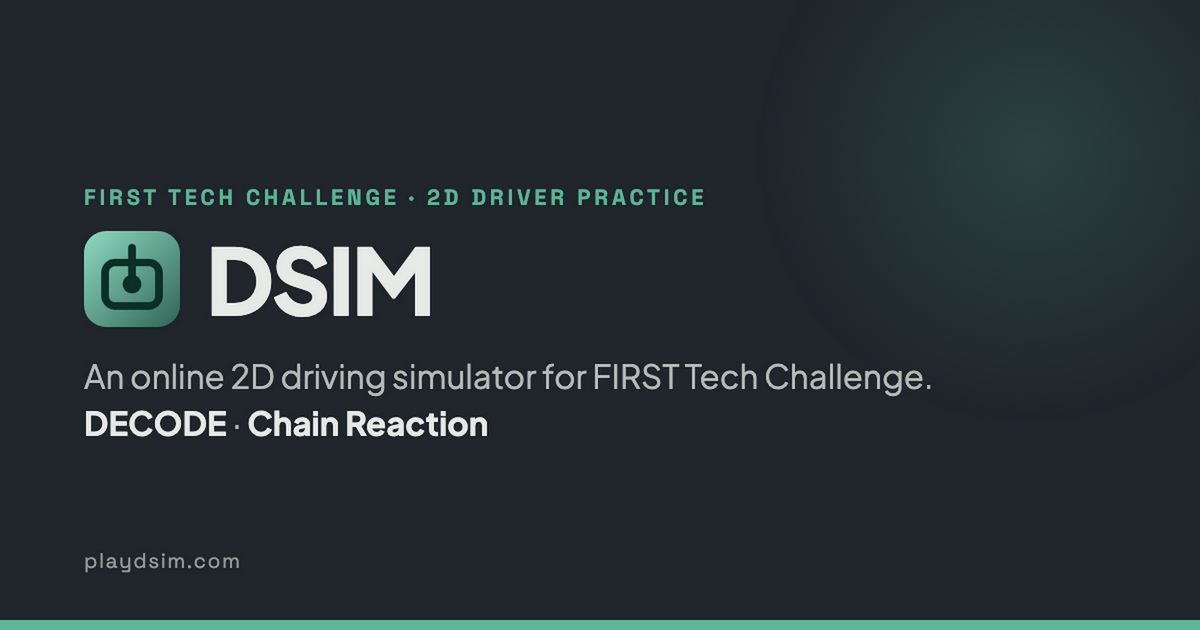
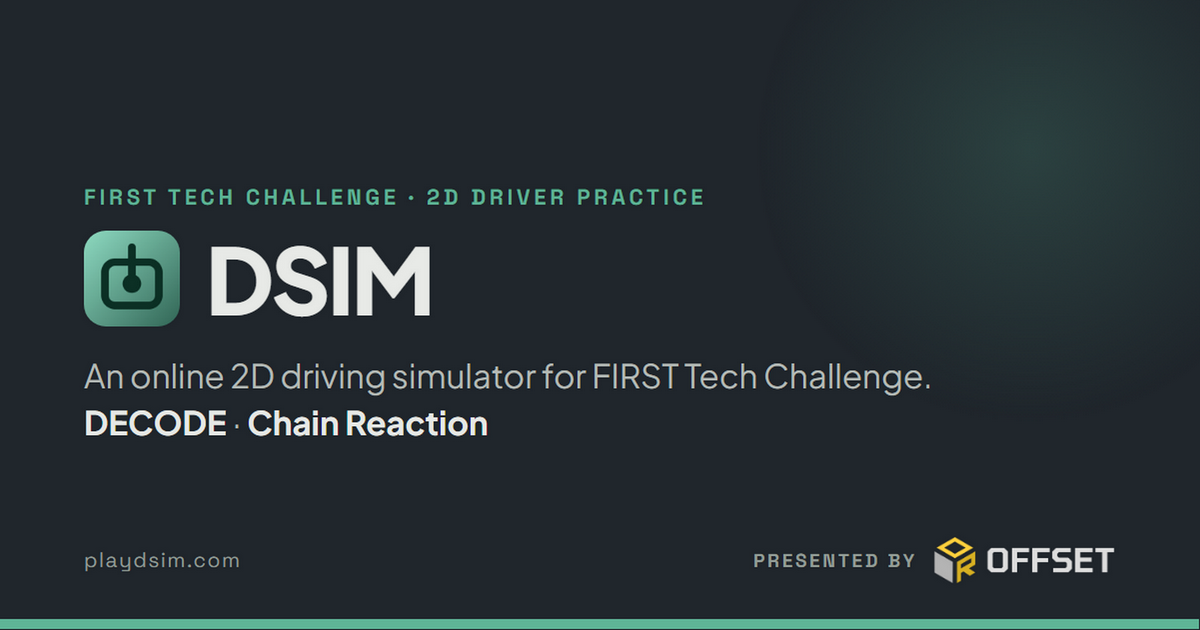
sponsor: put the mark on the link-preview card
public/og.png is what Discord, iMessage, Slack and X draw when anyone pastes a
playdsim.com link — the one surface a person sees WITHOUT opening the app, and
the only one of them that was still unbranded. Every paste was a DSIM impression
with the presenting sponsor absent from it.

scripts/og-image.cjs now draws the "Presented by" lockup opposite the domain,
reading the name and the term out of src/sponsor.ts rather than keeping a second
copy: this script runs months apart from any edit to that module, so a hard-coded
name is drift waiting to happen, and a missing field throws instead of silently
producing an unbranded card.

The card is a BUILD ARTIFACT, so SPONSOR.term and VITE_SPONSOR=0 cannot reach it
the way they reach the other six placements — a scraper fetches a committed PNG.
The term is read at generate time instead and the lockup is omitted outside it,
with the outcome printed on stdout; taking it down is `npm run og` plus a commit,
the same manual step the Discord server icon already is. docs/sponsor.md says so
in the term section, the swap procedure and the placement table.

No placement id and no UTM tag: an image inside a link preview has no click
target, so an id here would only add a permanently-zero row to the monthly report.

The app icons stay unbranded on purpose — an icon is identity, it renders at
16-192px, and icon-512 is the maskable source a launcher crops to a circle. A
[…]

diff --git a/scripts/smoke-biobuzz/sponsor.ts b/scripts/smoke-biobuzz/sponsor.ts
@@ -210,6 +210,48 @@ export function sponsorChecks(check: Check): void {
     `index.html — expected ${sponsorLink('loading')}`,
   );
 
+  // ── the link-preview card ─────────────────────────────────────────────────
+  // `public/og.png` is what Discord / iMessage / Slack / X draw when anyone pastes
+  // a playdsim.com link — the one surface a person sees WITHOUT opening the app,
+  // and the only placement that is GENERATED rather than rendered. It therefore
+  // fails silently in a way none of the others can: the term and `VITE_SPONSOR=0`
+  // cannot reach a committed PNG, and nothing at runtime ever looks at it.
+  const ogGen = code('scripts/og-image.cjs');
+  check(
+    'sponsor: the OG card generator reads the sponsor out of src/sponsor.ts',
+    ogGen.includes("'..', 'src', 'sponsor.ts'") || ogGen.includes('SPONSOR_TS'),
+    'a second copy of the name in scripts/og-image.cjs is drift waiting to happen',
+  );
+  check(
+    'sponsor: the OG card draws the artwork',
+    ogGen.includes('offset-on-dark.png'),
+    'scripts/og-image.cjs — the card is #20262c, so the dark-SURFACE cut',
+  );
+  check(
+    'sponsor: the OG card carries the words as well as the logo',
+    ogGen.includes('SPONSOR_PRESENTS'),
+    '"presented by" is the claim that was bought; a bare logo is decoration',
+  );
+  check(
+    'sponsor: the OG card honours the term at GENERATE time',
+    ogGen.includes('SPONSOR_ON') && /from'\)|until'\)/.test(ogGen),
+    'a committed PNG cannot be taken down by SPONSOR.term or VITE_SPONSOR=0',
+  );
+  // the alt text is the placement for anyone reading a pasted link with a screen
+  // reader, and it is also the only part of the card that lives in the repo as text
+  check(
+    'sponsor: both link-preview alt strings name the sponsor',
+    (read('index.html').match(
+      new RegExp(`image:alt"\\s*\\n?\\s*content="[^"]*${SPONSOR.name}`, 'g'),
+    ) ?? []).length === 2,
+    'index.html — og:image:alt and twitter:image:alt',
+  );
+  check(
+    'sponsor: the card is documented as a manual take-down, like the Discord icon',
+    read('docs/sponsor.md').includes('npm run og'),
+    'docs/sponsor.md — nothing at runtime can retire a committed image',
+  );
+
   // ── the desktop build ─────────────────────────────────────────────────────
   const splash = read('electron/splash.html');
   check('sponsor: the desktop splash names the sponsor', splash.includes(SPONSOR.name), 'electron/splash.html');

diff --git a/index.html b/index.html
@@ -43,12 +43,23 @@
       content="An online 2D driving simulator for FIRST Tech Challenge. Build a robot, drive DECODE or Chain Reaction, and play solo or ranked."
     />
     <meta property="og:url" content="https://www.playdsim.com/" />
-    <!-- absolute, and a real 1200x630 card: scrapers won't resolve a relative src -->
+    <!--
+      absolute, and a real 1200x630 card: scrapers won't resolve a relative src.
+      `public/og.png` is GENERATED by `npm run og` (scripts/og-image.cjs) and
+      committed; it carries the presenting sponsor's mark, so the alt text names
+      them too — a screen reader on a pasted link is one of the surfaces the
+      placement was sold for. ⚠ When the term lapses, re-run `npm run og` and
+      drop the sponsor clause from both alt strings below; the card is a build
+      artifact, so `SPONSOR.term` cannot take it down on its own.
+    -->
     <meta property="og:image" content="https://www.playdsim.com/og.png" />
     <meta property="og:image:width" content="1200" />
     <meta property="og:image:height" content="630" />
     <meta property="og:image:type" content="image/png" />
-    <meta property="og:image:alt" content="DSIM: online 2D FTC driving simulator" />
+    <meta
+      property="og:image:alt"
+      content="DSIM: online 2D FTC driving simulator. Presented by Offset Robotics."
+    />
     <meta property="og:locale" content="en_US" />
 
     <meta name="twitter:card" content="summary_large_image" />
@@ -58,7 +69,10 @@
       content="An online 2D driving simulator for FIRST Tech Challenge. Build a robot, drive DECODE or Chain Reaction, and play solo or ranked."
     />
     <meta name="twitter:image" content="https://www.playdsim.com/og.png" />
-    <meta name="twitter:image:alt" content="DSIM: online 2D FTC driving simulator" />
+    <meta
+      name="twitter:image:alt"
+      content="DSIM: online 2D FTC driving simulator. Presented by Offset Robotics."
+    />
     <!--
       Google AdSense site verification. This has to sit in the served HTML of EVERY
       page, which for a client-rendered SPA means here and only here: index.html is

diff --git a/docs/sponsor.md b/docs/sponsor.md
@@ -38,6 +38,28 @@ Do not fold one into the other.
 | `replay` | burned into every exported MP4/WebM | `src/ui/replayOverlay.ts` | logo, h=20 |
 | `loading` | the pre-React loading screen / no-JS page | `#seo-home` in `index.html` | text link |
 
+One more surface carries the artwork but is **GENERATED, not rendered**:
+
+| placement id | where | component | artwork |
+|---|---|---|---|
+| *(none — see below)* | `public/og.png`, the link-preview card | `scripts/og-image.cjs` (`npm run og`) | logo, h=46 |
+
+**This is the one surface a person sees WITHOUT opening the app.** Every link pasted into a
+Discord server, an iMessage thread or a Slack channel renders that PNG, and every one of those
+was a DSIM impression with the sponsor absent from it. `index.html`'s `og:image:alt` and
+`twitter:image:alt` name the sponsor for the same reason.
+
+⚠ **IT IS A BUILD ARTIFACT, SO THE TERM AND THE KILL SWITCH DO NOT REACH IT.** A scraper
+fetches a committed file; there is no React, no `import.meta.env` and no clock. `og-image.cjs`
+reads `SPONSOR.term` **at generate time** instead and omits the lockup outside it, saying which
+it did on stdout — so taking the mark off the card is `npm run og` plus a commit, exactly like
+the Discord server icon is a manual step. Put it on the same list.
+
+⚠ **IT HAS NO PLACEMENT ID AND CARRIES NO UTM TAG, deliberately.** An image inside a link
+preview has no click target of its own, so there is no click to attribute; an id that can never
+appear in `utm_medium` would put a permanently-zero row in the monthly report. It is an
+impression, and the impression it belongs to is the one Vercel already counts as a session.
+
 Two more surfaces carry the mark as TEXT rather than artwork, deliberately:
 
 - **The loading screen** is `#seo-home` in `index.html` — React clears `#root` on mount, so
@@ -50,6 +72,23 @@ Two more surfaces carry the mark as TEXT rather than artwork, deliberately:
   It fires no event: there is no analytics script on the page yet.
 - **The Discord server** is not a repo change at all. The logo and the "presented by" line
   go on the server itself (icon, banner, or the rules channel) by hand.
+
+### The images that deliberately do NOT carry the mark
+
+Asked directly ("put it on every embed and image"), and answered no, so the question is not
+re-opened every season:
+
+- **The app icons** — `public/favicon.svg`, `public/apple-touch-icon.png`,
+  `public/icon-192.png`, `public/icon-512.png`, `build/icon.png`. An icon is IDENTITY: it is
+  what a tab, a home screen and a taskbar use to mean "DSIM", it renders at 16–192px, and the
+  512 is also the **maskable** source, which a launcher crops to a circle. A 3.96:1 wordmark
+  inside that is illegible at every size it is actually drawn at, and a co-branded app icon is
+  a different deal from a presenting sponsorship of the app. The OG card is where a mark at
+  that scale belongs, and it has one.
+- **`dsim-logo.png`** (repo root) — not referenced by the app or the build; it is repo art.
+- **The GitHub repository's social preview** — a setting in the repo's own settings page, not
+  a file here. It is a real link-preview surface, so it belongs on the manual list beside the
+  Discord server icon if the sponsor ever asks for it.
 
 One more piece of the deal is a PRODUCT NAME, not a placement: in the BIOBUZZ robot builder
 the FLOWER-scoring mechanism reads **"OFFSET™ Box Tube"** (`bbLiftKindLabel`,
@@ -87,6 +126,10 @@ toward SHOWING the mark — a wrong clock must not quietly void a placement some
 string `0`; anything else (including absent) leaves the sponsorship on, so a typo in the
 deploy env cannot silently take it down.
 
+⚠ **NEITHER REACHES `public/og.png` OR THE DISCORD SERVER.** Both are artifacts somebody
+generated once, not code that runs. When the term ends: `npm run og`, commit the card, edit the
+two `*:image:alt` strings in `index.html`, and change the server icon by hand.
+
 ## The artwork, and swapping it
 
 The repo carries Offset's own two cuts, 1735×438 (≈3.96:1) each, as supplied:
@@ -103,7 +146,11 @@ Both readings are reasonable and they are exact opposites, so `on-light` / `on-d
 spelling in this repo, and a new file gets placed **by looking at the pixels**, never by
 trusting the label on the download. Getting it backwards puts white ink on a white page.
 
-**Replace all four, every time.** 1 and 2 go through a Vite `import`
+**Replace all four, every time — then run `npm run og` and commit the card.** `og-image.cjs`
+inlines `src/assets/sponsors/offset-on-dark.png` as base64 at generate time, so a swap that
+stops there leaves the OLD artwork in the one image every pasted link shows.
+
+1 and 2 go through a Vite `import`
 (`src/ui/sponsorAssets.ts`) so the fingerprinted URL resolves under Electron's `base: './'`;
 3 and 4 are duplicates beside the splash, which is a `file://` page and cannot reach a
 fingerprinted name. Swapping one pair and forgetting the other is the obvious way to get
